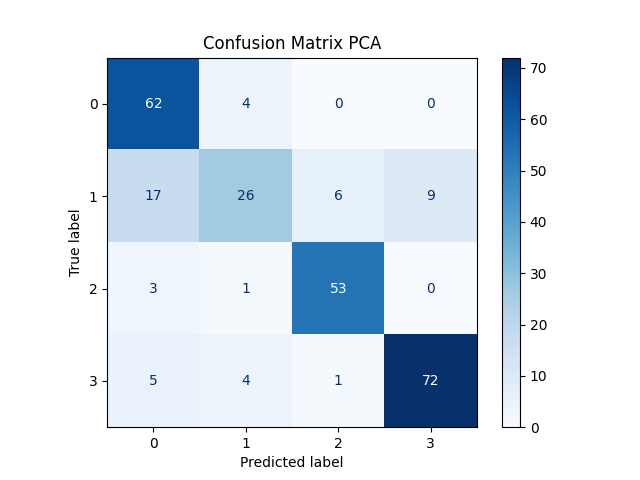
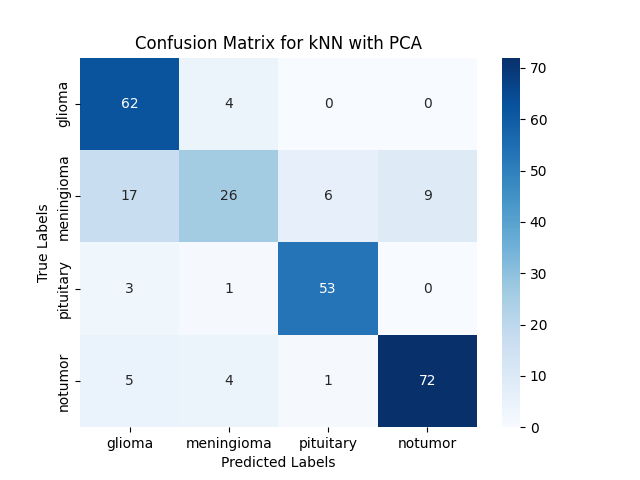
updated kNN PCA confusion matrix formatting

diff --git a/kNN.py b/kNN.py
@@ -19,6 +19,8 @@ from sklearn.metrics import mean_squared_error
 from scipy.spatial.distance import pdist, squareform
 from scipy.sparse.csgraph import connected_components
 from sklearn.neighbors import kneighbors_graph
+import seaborn as sns
+
 
 warnings.filterwarnings("ignore", category=FutureWarning)
 warnings.filterwarnings("ignore", category=UserWarning)
@@ -153,11 +155,14 @@ plt.legend()
 plt.colorbar(scatter, label='True Labels')
 plt.savefig("kNN Predictions vs True Labels_PCA.png")
 
+plt.figure()
 cm = confusion_matrix(y_test2, y_pred_pca)
+class_labels = ['glioma', 'meningioma', 'pituitary', 'notumor']
 
-disp = ConfusionMatrixDisplay(confusion_matrix=cm)
-disp.plot(cmap='Blues')
-plt.title("Confusion Matrix PCA")
+sns.heatmap(cm, annot=True, fmt="d", cmap="Blues", xticklabels=class_labels, yticklabels=class_labels)
+plt.xlabel('Predicted Labels')
+plt.ylabel('True Labels')
+plt.title('Confusion Matrix for kNN with PCA')
 plt.savefig("confusion matrix_PCA.png")
 
 
